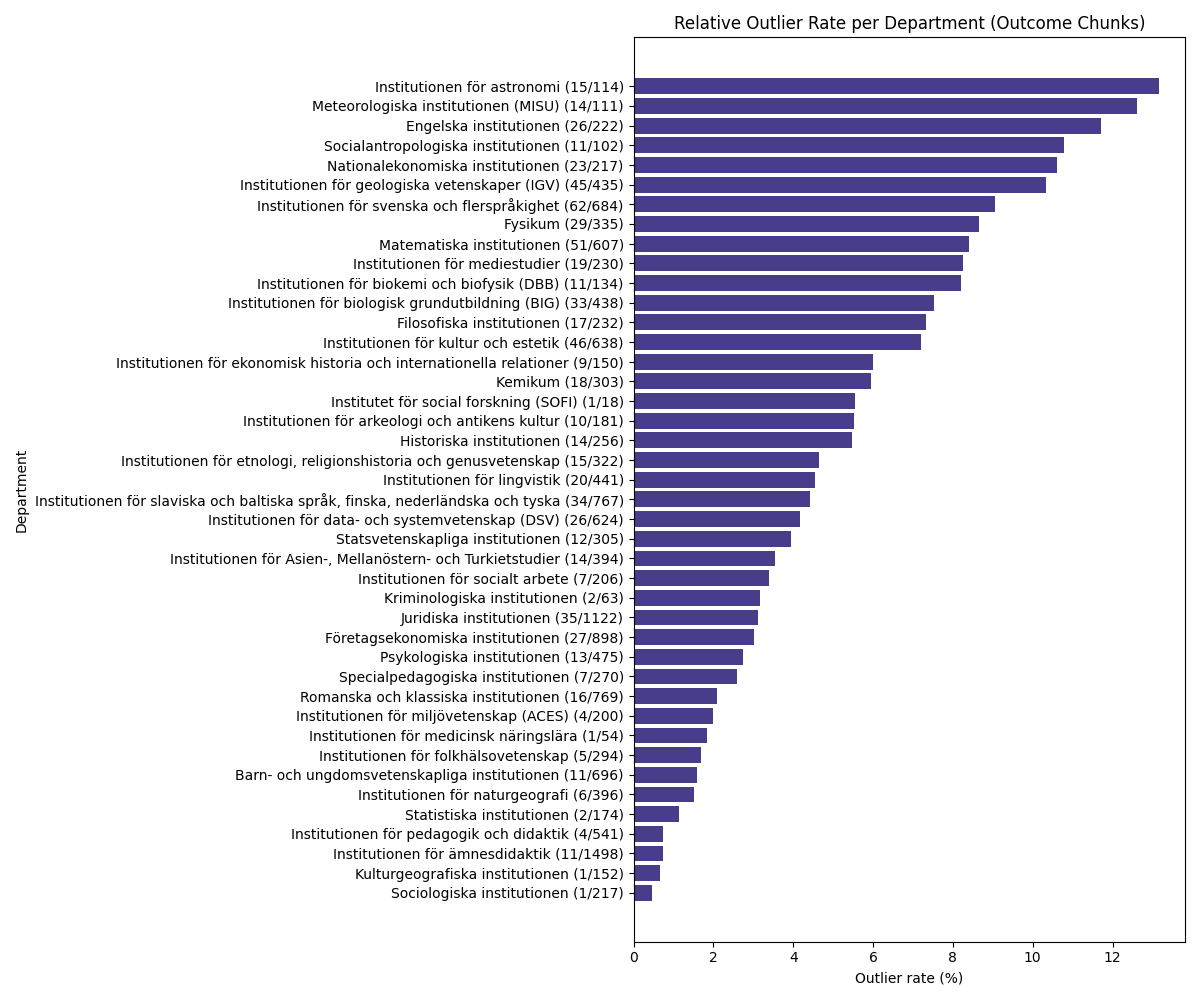
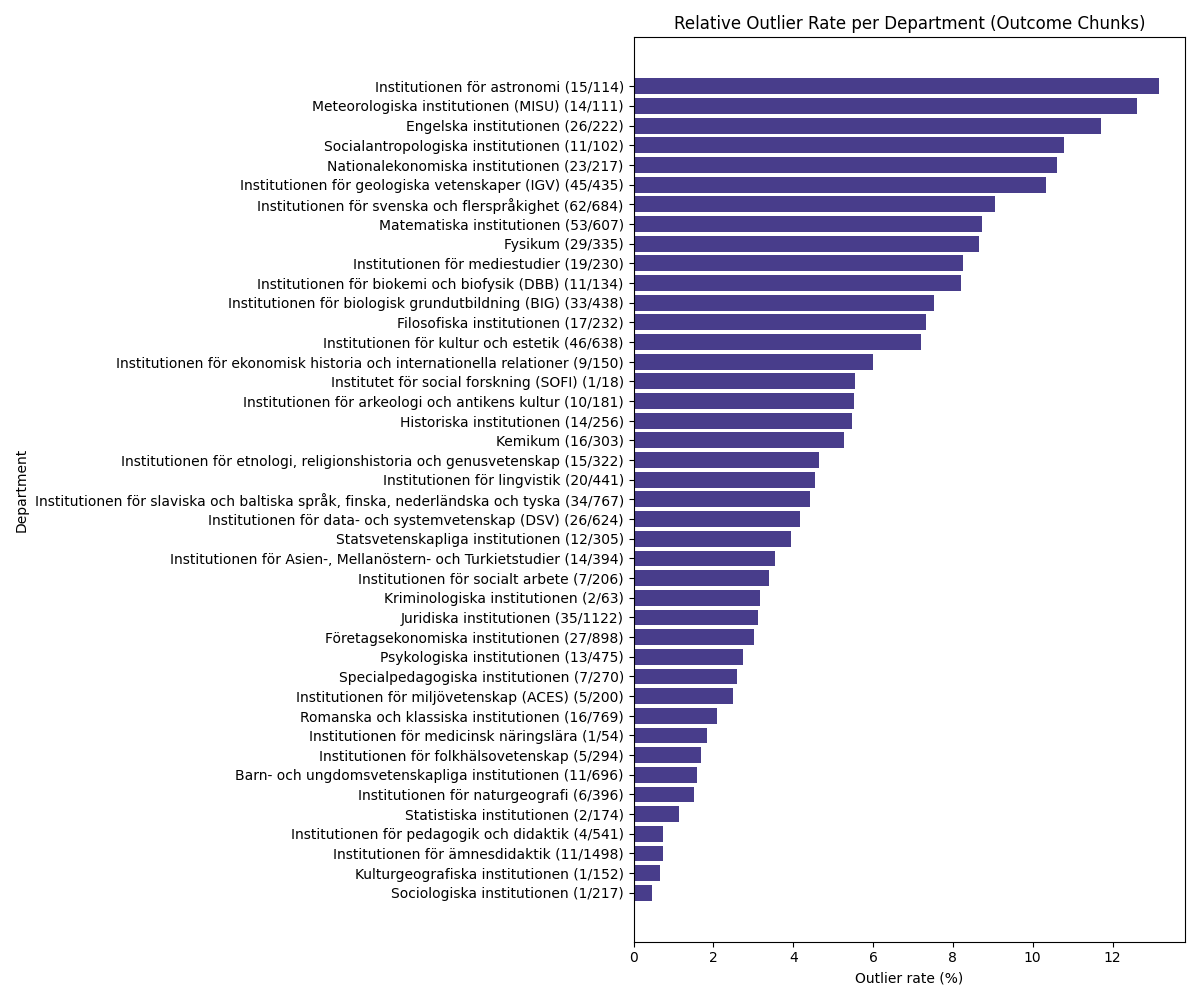
Fixed some stuff

diff --git a/sbert.py b/sbert.py
@@ -1,4 +1,3 @@
-import numpy as np
 import json
 import re
 
@@ -16,7 +15,7 @@ def sliding_window(sentences, window_size=2, stride=1):
     return chunks
 
 def get_sentences(text):
-    abbreviations = ['t.ex.', 'd.v.s.', 'm.m.', 'bl.a.', 'etc.', 'e.g.', 'i.e.', 'ca.', 'ev.', 'fr.o.m.', 't.o.m.', 'inkl.', 'exkl.', 'o.s.v.']
+    abbreviations = ['hp.', 't.ex.', 'd.v.s.', 'm.m.', 'bl.a.', 'etc.', 'e.g.', 'i.e.', 'ca.', 'ev.', 'fr.o.m.', 't.o.m.', 'inkl.', 'exkl.', 'o.s.v.']
     placeholder_map = {}
     for i, abbr in enumerate(abbreviations):
         placeholder = f"__ABBR_{i}__"
@@ -52,7 +51,7 @@ def main():
 
     output = {}
 
-    match_per = 'outcome' # content or outcome
+    match_per = input("Match per 'content' or 'outcome': ").strip().lower()
 
     for course in corpus['Course-list']:
         content_chunks = get_sentences(course['CourseContent'])